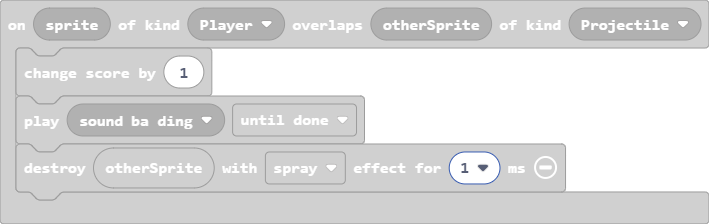
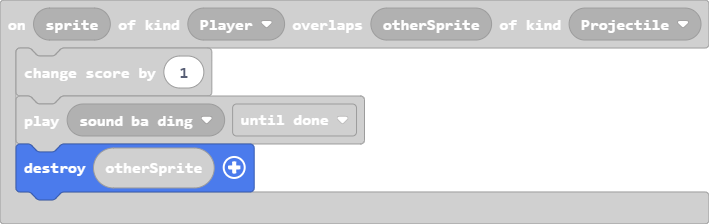
removed effect

Changed region(s): [[0.0, 0.625, 0.8068, 0.9062]]

diff --git a/main.ts b/main.ts
@@ -22,7 +22,7 @@ controller.A.onEvent(ControllerButtonEvent.Pressed, function () {
 sprites.onOverlap(SpriteKind.Player, SpriteKind.Projectile, function (sprite, otherSprite) {
     info.changeScoreBy(1)
     music.play(music.melodyPlayable(music.baDing), music.PlaybackMode.UntilDone)
-    sprites.destroy(otherSprite, effects.spray, 1)
+    sprites.destroy(otherSprite)
 })
 info.onLifeZero(function () {
     music.stopAllSounds()
